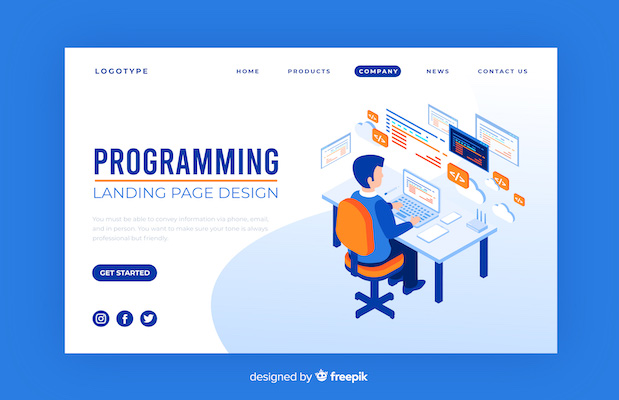
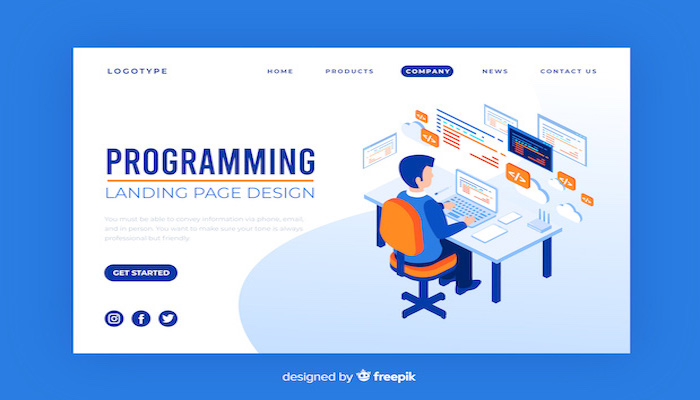
Reformatted for laptop screen

diff --git a/styles.css b/styles.css
@@ -30,12 +30,12 @@ header {
 
 nav {
 	background-color: rgb(255,255,255);
-	width: 65%;
+	width: 80%;
 	height: 68px;
 	margin: 0 auto;
 	position: fixed;
 	top: 0;
-	left: 17.5%;
+	left: 10%;
 	
 }
 
@@ -51,7 +51,7 @@ nav {
 	float: left;
 	background-color: white;
 	margin-left: 5px;
-	color: rgb(70,130,180);
+	color: rgb(50,79,133);
 }
 
 nav ul {
@@ -80,8 +80,8 @@ li:hover {
 }
 
 .content {
-	margin-right: 17.5%;
-	margin-left: 17.5%;
+	margin-right: 10%;
+	margin-left: 10%;
 	padding-top: 10%;
 	color: rgb(0,153,255);
 }
@@ -105,8 +105,8 @@ li:hover {
 }
 
 section {
-	margin-right: 17.5%;
-	margin-left: 17.5%;
+	margin-right: 10%;
+	margin-left: 10%;
 	height: 600px;
 	background-color: rgb(255,255,255);
 }
@@ -114,8 +114,8 @@ section {
 .projects {
 	float: left;
 	height: 350px;
-	width: 25.9%;
-	margin-right: 11%;
+	width: 20%;
+	margin-right: 8%;
 }
 
 #box3 {
@@ -129,26 +129,24 @@ section {
 
 article {
 	margin-top: 20px;
-	margin-right: 17.5%;
-	margin-left: 17.5%;
+	width: 100%;
 	height: 800px;
-	/*background-color: blue;*/
 }
 
 article div {
 	width: 50%;
 	height: 50%;
-	/*border: 2px solid gray;*/
 	float: left;
 }
 
 article div h2 {
+	margin-left: 10px;
 	margin-top: 10px ;
 	margin-bottom: 10px;
 }
 
 article p {
-	margin-left: 18px;
+	margin-left: 30px;
 	margin-right: 10px;
 	font-size: 1.4rem;
 	text-align: justify;
@@ -159,19 +157,25 @@ article p {
 	font-size: 2rem;
 }
 
+.scrumImage img {
+	float: right;
+}
 
-@media screen and (max-width: 1450px) {
-	
-	
+@media screen and (max-width: 1490px) {
+
 	
 	.logoText1,.logoText2 {
 		font-size: 1.25rem;
 		padding-left: 5px;
 	}
 	.projects {
-		width: 45%;
-		margin-right: 2%;
+		width: 30%;
+		margin-right: 1%;
 		margin-bottom: 10%;
+	}
+	
+	#box1 {
+		margin-left: 5%;
 	}
 	.projects p {
 		width: 80%;

diff --git a/index.html b/index.html
@@ -53,9 +53,9 @@
 				<p>I have 6 years’ experience in the Financial Services Industry in London and 7 years’ experience delivering project in the downstream Oil & Gas sector in South Africa. As co-founder of BioSoil (a spin-off startup from Dialogic Management). I was responsible for the development and successful launch of a unique soil remediation product that cleaned hydrocarbon contaminated soil on-site and allowed the reuse of soil as & part of construction projects within the downstream oil & gas sector in South Africa.</p>
 			</div>
 			
-			<div>
+			<div class='scrumImage'>
 				<img src='scrum.jpg'/>
-			</div class='scrumImage'>
+			</div>
 			
 			<div class='codingImage'>
 				<img src='coding.jpg'>
